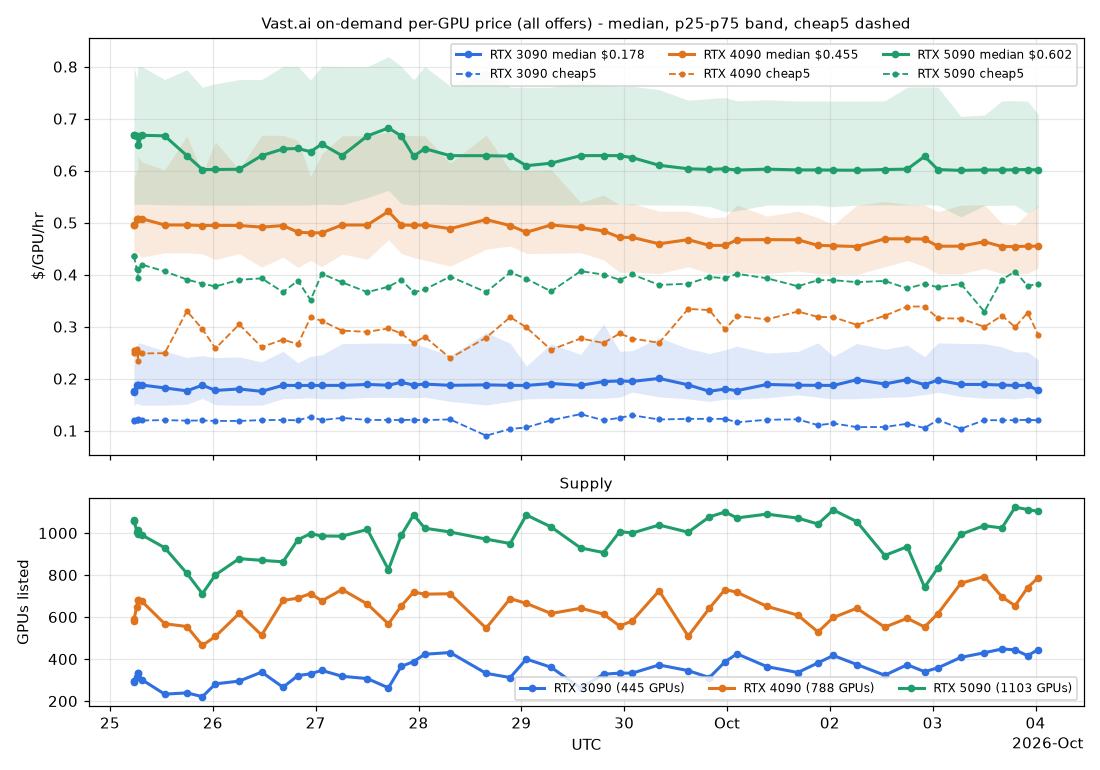
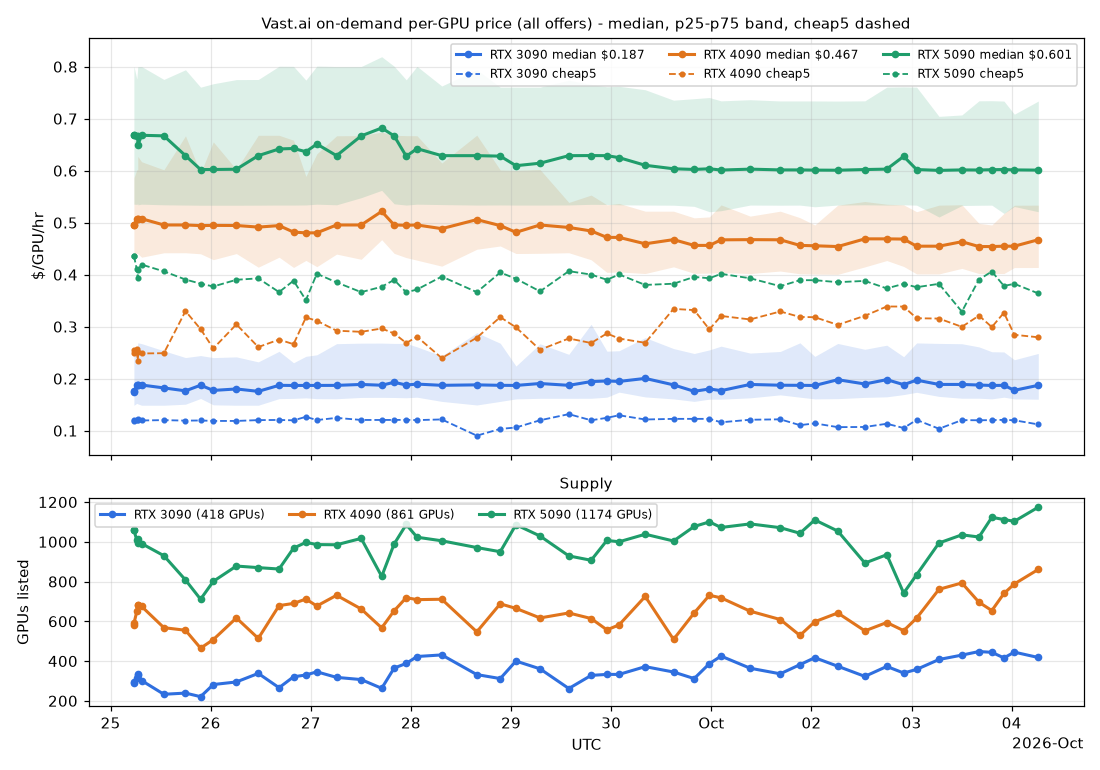
snapshot 2026-10-04T06:22Z

diff --git a/chart.html b/chart.html
@@ -71,7 +71,7 @@ h1 { font-size: 18px; margin: 4px 0 2px; }
     <div class="supply"><canvas id="supply"></canvas></div></div>
 </main>
 <script>
-const DATA = {"all":{"RTX 3090":[[1790314500000,0.1756,0.1489,0.2548,0.1198,294.0,149.0],[1790314560000,0.1741,0.1489,0.2439,0.1193,289.0,148.0],[1790317020000,0.1874,0.1526,0.2529,0.121,316.0,158.0],[1790317860000,0.187,0.1515,0.2678,0.1208,332.0,169.0],[1790317860000,0.1874,0.1515,0.2689,0.1221,335.0,169.0],[1790321160000,0.1878,0.1489,0.2674,0.1196,302.0,156.0],[1790340360000,0.1822,0.1489,0.2536,0.1203,233.0,131.0],[1790359020000,0.1766,0.1509,0.2406,0.1193,239.0,136.0],[1790372040000,0.1874,0.1619,0.2444,0.1196,221.0,131.0],[1790383020000,0.1774,0.1497,0.2405,0.1187,282.0,150.0],[1790402940000,0.1802,0.1489,0.2419,0.1187,295.0,149.0],[1790421840000,0.1756,0.1489,0.2323,0.1203,338.0,161.0],[1790439780000,0.1872,0.1616,0.2526,0.1206,266.0,135.0],[1790452260000,0.1869,0.1621,0.2306,0.1199,321.0,154.0],[1790462940000,0.187,0.1631,0.243,0.1266,330.0,155.0],[1790472360000,0.187,0.1615,0.2459,0.1204,346.0,165.0],[1790489400000,0.1871,0.1614,0.2673,0.1246,318.0,156.0],[1790510640000,0.1889,0.1639,0.2683,0.1206,307.0,155.0],[1790528340000,0.1874,0.1641,0.2684,0.1206,263.0,133.0],[1790539080000,0.193,0.1638,0.2678,0.1206,365.0,170.0],[1790549520000,0.1878,0.1633,0.2678,0.1208,388.0,179.0],[1790558820000,0.1896,0.1644,0.2612,0.1203,423.0,191.0],[1790580180000,0.1872,0.1563,0.2437,0.1216,431.0,180.0],[1790610420000,0.1881,0.1494,0.2884,0.0904,332.0,151.0],[1790630640000,0.1872,0.1563,0.2681,0.1034,312.0,146.0],[1790644200000,0.187,0.1611,0.2243,0.1061,400.0,183.0],[1790664960000,0.1907,0.1622,0.2671,0.12,361.0,167.0],[1790689800000,0.1872,0.1622,0.2468,0.1318,262.0,131.0],[1790709060000,0.1944,0.1623,0.3046,0.12,328.0,158.0],[1790722680000,0.1956,0.1644,0.2529,0.1247,333.0,155.0],[1790733180000,0.1947,0.1741,0.2537,0.1296,333.0,149.0],[1790755740000,0.2005,0.1649,0.2789,0.1215,372.0,162.0],[1790780160000,0.1881,0.1611,0.2579,0.1227,345.0,152.0],[1790797980000,0.1757,0.1563,0.2484,0.1227,312.0,147.0],[1790811120000,0.1802,0.1606,0.2553,0.1227,387.0,171.0],[1790821200000,0.177,0.1606,0.2625,0.1161,425.0,183.0],[1790846280000,0.1889,0.1631,0.2492,0.121,364.0,166.0],[1790872260000,0.1874,0.1689,0.2523,0.1218,336.0,165.0],[1790889240000,0.1872,0.1644,0.2689,0.1106,382.0,168.0],[1790902080000,0.1869,0.1611,0.2428,0.114,417.0,178.0],[1790921880000,0.198,0.1616,0.2677,0.1068,374.0,166.0],[1790945280000,0.1898,0.164,0.2565,0.1071,323.0,156.0],[1790964180000,0.1981,0.1651,0.2644,0.1133,373.0,178.0],[1790978760000,0.1885,0.1694,0.2422,0.1051,340.0,166.0],[1790989920000,0.1972,0.1738,0.2687,0.1207,358.0,174.0],[1791009240000,0.1889,0.1659,0.2678,0.1037,408.0,183.0],[1791028980000,0.1889,0.1624,0.2672,0.1203,430.0,185.0],[1791043740000,0.1878,0.1624,0.2611,0.12,448.0,189.0],[1791054840000,0.1869,0.1612,0.2518,0.1203,444.0,189.0],[1791065280000,0.1872,0.1644,0.2514,0.1208,416.0,176.0],[1791074280000,0.1776,0.1611,0.2364,0.12,445.0,179.0]],"RTX 4090":[[1790314500000,0.4956,0.4353,0.6005,0.2543,582.0,218.0],[1790314560000,0.4956,0.4289,0.5863,0.2488,590.0,219.0],[1790317020000,0.5069,0.441,0.6015,0.257,650.0,240.0],[1790317860000,0.507,0.4402,0.6022,0.2341,682.0,257.0],[1790317860000,0.5069,0.4404,0.6275,0.2515,682.0,257.0],[1790321160000,0.5076,0.4336,0.6172,0.2485,675.0,252.0],[1790340360000,0.4956,0.4421,0.6017,0.249,568.0,219.0],[1790359020000,0.4956,0.4422,0.667,0.33,555.0,225.0],[1790372040000,0.4944,0.4402,0.5953,0.2954,465.0,211.0],[1790383020000,0.4948,0.4289,0.6554,0.2581,508.0,233.0],[1790402940000,0.4946,0.4406,0.6023,0.3044,617.0,246.0],[1790421840000,0.4915,0.4144,0.6681,0.2608,514.0,213.0],[1790439780000,0.4944,0.4336,0.6681,0.2752,679.0,255.0],[1790452260000,0.4819,0.4139,0.6586,0.2663,690.0,263.0],[1790462940000,0.4804,0.4274,0.5889,0.3178,712.0,266.0],[1790472360000,0.4805,0.4154,0.6324,0.3113,677.0,266.0],[1790489400000,0.4956,0.4396,0.6671,0.2923,731.0,272.0],[1790510640000,0.4956,0.4296,0.6675,0.2901,662.0,261.0],[1790528340000,0.5217,0.4673,0.6741,0.2965,567.0,228.0],[1790539080000,0.4956,0.441,0.668,0.2869,653.0,251.0],[1790549520000,0.495,0.4328,0.6674,0.2686,719.0,270.0],[1790558820000,0.4956,0.4279,0.6672,0.2806,709.0,270.0],[1790580180000,0.4885,0.4164,0.6147,0.2396,711.0,268.0],[1790610420000,0.5059,0.4489,0.6683,0.2788,547.0,219.0],[1790630640000,0.4944,0.4552,0.6013,0.3184,688.0,255.0],[1790644200000,0.4815,0.4407,0.6007,0.2987,665.0,248.0],[1790664960000,0.4956,0.4411,0.6022,0.2556,617.0,245.0],[1790689800000,0.4908,0.4422,0.5389,0.2773,642.0,235.0],[1790709060000,0.4841,0.4287,0.5531,0.2686,614.0,234.0],[1790722680000,0.4717,0.4044,0.5343,0.287,557.0,233.0],[1790733180000,0.4717,0.4053,0.537,0.2772,582.0,248.0],[1790755740000,0.4594,0.4022,0.5221,0.269,725.0,273.0],[1790780160000,0.4674,0.4151,0.5221,0.3342,509.0,231.0],[1790797980000,0.4563,0.4026,0.5093,0.3319,642.0,263.0],[1790811120000,0.4563,0.403,0.5111,0.2948,731.0,275.0],[1790821200000,0.467,0.4041,0.5342,0.3206,718.0,275.0],[1790846280000,0.4674,0.4022,0.5126,0.3139,651.0,261.0],[1790872260000,0.4671,0.407,0.5221,0.3292,609.0,252.0],[1790889240000,0.4563,0.4017,0.5096,0.3187,529.0,229.0],[1790902080000,0.4556,0.4011,0.4956,0.3182,598.0,257.0],[1790921880000,0.4541,0.4006,0.5337,0.3035,642.0,261.0],[1790945280000,0.4689,0.415,0.5407,0.321,552.0,231.0],[1790964180000,0.4689,0.4272,0.5355,0.3388,594.0,234.0],[1790978760000,0.4685,0.4158,0.5343,0.3387,553.0,223.0],[1790989920000,0.4548,0.4015,0.5211,0.3162,616.0,248.0],[1791009240000,0.4548,0.4015,0.5337,0.3156,761.0,274.0],[1791028980000,0.4634,0.4121,0.5345,0.2997,793.0,288.0],[1791043740000,0.4541,0.4021,0.4986,0.3212,696.0,268.0],[1791054840000,0.4541,0.4022,0.4956,0.2993,654.0,250.0],[1791065280000,0.4548,0.4022,0.5177,0.3268,740.0,273.0],[1791074280000,0.4548,0.4137,0.5336,0.2844,788.0,274.0]],"RTX 5090":[[1790314500000,0.6678,0.5356,0.8004,0.4356,1060.0,315.0],[1790314560000,0.6678,0.5356,0.8006,0.436,1059.0,317.0],[1790317020000,0.6672,0.5352,0.7763,0.41,1007.0,319.0],[1790317860000,0.6676,0.5366,0.8004,0.3935,995.0,310.0],[1790317860000,0.6489,0.5344,0.8002,0.4093,1015.0,313.0],[1790321160000,0.6681,0.5356,0.8003,0.4194,991.0,299.0],[1790340360000,0.667,0.5344,0.7755,0.4064,930.0,282.0],[1790359020000,0.6289,0.5339,0.7941,0.3907,808.0,270.0],[1790372040000,0.6022,0.5336,0.7606,0.3827,711.0,263.0],[1790383020000,0.6023,0.5336,0.7672,0.3773,801.0,280.0],[1790402940000,0.6028,0.5336,0.7752,0.3902,878.0,302.0],[1790421840000,0.6289,0.5337,0.7754,0.3929,870.0,301.0],[1790439780000,0.6418,0.5339,0.8008,0.3665,863.0,286.0],[1790452260000,0.6427,0.5339,0.8006,0.3884,968.0,297.0],[1790462940000,0.6365,0.5341,0.7742,0.3511,997.0,310.0],[1790472360000,0.6512,0.5356,0.8011,0.4018,986.0,307.0],[1790489400000,0.6289,0.5344,0.8003,0.3852,985.0,315.0],[1790510640000,0.6669,0.5481,0.8003,0.3664,1017.0,321.0],[1790528340000,0.6821,0.5622,0.8192,0.3768,826.0,262.0],[1790539080000,0.6669,0.5363,0.8009,0.39,989.0,299.0],[1790549520000,0.6278,0.5339,0.7748,0.366,1087.0,325.0],[1790558820000,0.6424,0.5356,0.8006,0.3715,1023.0,309.0],[1790580180000,0.6289,0.5348,0.7629,0.3964,1005.0,321.0],[1790610420000,0.6289,0.5339,0.7941,0.3664,971.0,302.0],[1790630640000,0.628,0.5341,0.7607,0.4042,950.0,296.0],[1790644200000,0.6096,0.5339,0.7607,0.3922,1086.0,323.0],[1790664960000,0.6144,0.5339,0.7607,0.3679,1029.0,309.0],[1790689800000,0.6289,0.5341,0.774,0.4068,929.0,292.0],[1790709060000,0.6291,0.5353,0.7657,0.4002,907.0,280.0],[1790722680000,0.6289,0.5351,0.7614,0.3902,1007.0,306.0],[1790733180000,0.6251,0.5344,0.7623,0.4004,1000.0,311.0],[1790755740000,0.6104,0.5339,0.7557,0.3803,1038.0,322.0],[1790780160000,0.6037,0.5336,0.7356,0.3826,1004.0,315.0],[1790797980000,0.6024,0.5314,0.7385,0.3957,1077.0,321.0],[1790811120000,0.6037,0.5211,0.7407,0.3931,1100.0,321.0],[1790821200000,0.6012,0.523,0.7343,0.4016,1072.0,321.0],[1790846280000,0.603,0.5339,0.7365,0.3931,1090.0,342.0],[1790872260000,0.6015,0.5336,0.7341,0.3778,1071.0,325.0],[1790889240000,0.6015,0.5338,0.7341,0.3894,1043.0,313.0],[1790902080000,0.6011,0.5306,0.7341,0.3894,1110.0,320.0],[1790921880000,0.6009,0.5339,0.7339,0.3856,1054.0,323.0],[1790945280000,0.6022,0.5344,0.7343,0.388,893.0,295.0],[1790964180000,0.603,0.5339,0.7607,0.3736,935.0,301.0],[1790978760000,0.6275,0.5344,0.7612,0.3824,742.0,266.0],[1790989920000,0.6022,0.5337,0.7607,0.3759,834.0,273.0],[1791009240000,0.6006,0.5109,0.7045,0.3824,994.0,316.0],[1791028980000,0.6015,0.533,0.7072,0.3289,1035.0,323.0],[1791043740000,0.6013,0.5335,0.7344,0.3906,1024.0,318.0],[1791054840000,0.6019,0.5337,0.7346,0.4061,1123.0,326.0],[1791065280000,0.6022,0.5178,0.7339,0.3784,1112.0,340.0],[1791074280000,0.6015,0.5311,0.7086,0.3824,1103.0,341.0]]},"reliable":{"RTX 3090":[[1790314500000,0.1844,0.149,0.2691,0.1226,183.0,96.0],[1790314560000,0.1774,0.1489,0.2529,0.1197,174.0,93.0],[1790317020000,0.1889,0.1611,0.2674,0.1234,180.0,97.0],[1790317860000,0.1889,0.1611,0.3489,0.1208,207.0,111.0],[1790317860000,0.2005,0.1613,0.3484,0.1221,210.0,114.0],[1790321160000,0.1889,0.1491,0.3188,0.1196,199.0,109.0],[1790340360000,0.1822,0.1512,0.2869,0.1203,162.0,95.0],[1790359020000,0.1774,0.1563,0.2515,0.1193,156.0,93.0],[1790372040000,0.1878,0.1611,0.2499,0.1196,143.0,90.0],[1790383020000,0.1823,0.1563,0.2433,0.1187,171.0,98.0],[1790402940000,0.1802,0.1534,0.2523,0.1187,166.0,97.0],[1790421840000,0.1777,0.1511,0.2521,0.1203,201.0,108.0],[1790439780000,0.1914,0.1611,0.2681,0.1206,165.0,93.0],[1790452260000,0.1781,0.1605,0.2339,0.1225,200.0,100.0],[1790462940000,0.1873,0.1621,0.2675,0.1292,201.0,98.0],[1790472360000,0.1881,0.1606,0.2673,0.1206,190.0,101.0],[1790489400000,0.1878,0.1606,0.2679,0.1246,190.0,105.0],[1790510640000,0.2007,0.1622,0.2678,0.1206,201.0,105.0],[1790528340000,0.1911,0.1644,0.2686,0.1206,174.0,88.0],[1790539080000,0.2006,0.1603,0.2918,0.1206,211.0,110.0],[1790549520000,0.2006,0.1622,0.2689,0.1223,229.0,117.0],[1790558820000,0.2022,0.1644,0.2678,0.1206,272.0,136.0],[1790580180000,0.1893,0.1563,0.264,0.1237,290.0,130.0],[1790610420000,0.2019,0.1627,0.3359,0.1206,217.0,100.0],[1790630640000,0.2015,0.1672,0.3165,0.12,210.0,103.0],[1790644200000,0.188,0.1645,0.2348,0.1216,260.0,124.0],[1790664960000,0.2015,0.1658,0.2791,0.12,224.0,114.0],[1790689800000,0.2006,0.1684,0.2678,0.1327,153.0,80.0],[1790709060000,0.2049,0.1645,0.348,0.1291,201.0,101.0],[1790722680000,0.2015,0.1726,0.2675,0.1356,215.0,104.0],[1790733180000,0.2007,0.1742,0.2537,0.1492,189.0,93.0],[1790755740000,0.203,0.1656,0.2827,0.1417,206.0,98.0],[1790780160000,0.1881,0.1623,0.2545,0.1289,187.0,86.0],[1790797980000,0.1907,0.1648,0.2401,0.1348,158.0,85.0],[1790811120000,0.1881,0.1648,0.2515,0.1342,204.0,105.0],[1790821200000,0.1846,0.1645,0.2651,0.1297,247.0,114.0],[1790846280000,0.2009,0.1696,0.2445,0.1291,218.0,104.0],[1790872260000,0.2019,0.173,0.2681,0.137,161.0,92.0],[1790889240000,0.1987,0.1742,0.2944,0.1383,217.0,106.0],[1790902080000,0.1884,0.162,0.2674,0.1252,226.0,105.0],[1790921880000,0.2015,0.1622,0.2677,0.1311,217.0,106.0],[1790945280000,0.2011,0.1736,0.2628,0.1307,174.0,93.0],[1790964180000,0.1988,0.1668,0.2674,0.1256,218.0,113.0],[1790978760000,0.1927,0.1682,0.2412,0.1259,165.0,91.0],[1790989920000,0.2011,0.1666,0.2784,0.123,172.0,99.0],[1791009240000,0.2008,0.1619,0.2687,0.1043,205.0,110.0],[1791028980000,0.1896,0.1624,0.2689,0.1233,250.0,111.0],[1791043740000,0.1878,0.1611,0.2681,0.1203,259.0,117.0],[1791054840000,0.1872,0.1623,0.2674,0.1259,230.0,110.0],[1791065280000,0.1872,0.1644,0.2441,0.1208,225.0,107.0],[1791074280000,0.1776,0.1607,0.2163,0.1203,212.0,103.0]],"RTX 4090":[[1790314500000,0.4934,0.4405,0.6079,0.3451,452.0,164.0],[1790314560000,0.4911,0.4306,0.6035,0.3335,454.0,162.0],[1790317020000,0.5085,0.4405,0.6607,0.3439,501.0,178.0],[1790317860000,0.5074,0.4334,0.6284,0.3123,527.0,197.0],[1790317860000,0.5143,0.4405,0.6685,0.3361,527.0,192.0],[1790321160000,0.5216,0.4405,0.6676,0.3307,523.0,196.0],[1790340360000,0.5034,0.443,0.6674,0.336,456.0,165.0],[1790359020000,0.5135,0.4422,0.6704,0.3325,419.0,165.0],[1790372040000,0.4819,0.4403,0.6054,0.359,348.0,154.0],[1790383020000,0.4944,0.4291,0.6694,0.3451,412.0,186.0],[1790402940000,0.4833,0.4406,0.6681,0.3367,496.0,193.0],[1790421840000,0.4809,0.4137,0.6681,0.3272,408.0,162.0],[1790439780000,0.4833,0.4309,0.6691,0.3491,542.0,203.0],[1790452260000,0.4808,0.4128,0.6674,0.3389,603.0,224.0],[1790462940000,0.4765,0.4201,0.6019,0.3479,634.0,229.0],[1790472360000,0.4704,0.4149,0.6674,0.3415,602.0,228.0],[1790489400000,0.4822,0.4324,0.6674,0.3226,637.0,235.0],[1790510640000,0.4874,0.4296,0.6696,0.327,548.0,217.0],[1790528340000,0.5363,0.4556,0.697,0.347,448.0,181.0],[1790539080000,0.4916,0.4361,0.6685,0.3348,537.0,206.0],[1790549520000,0.482,0.4293,0.6685,0.351,619.0,232.0],[1790558820000,0.4818,0.4194,0.6674,0.3452,579.0,214.0],[1790580180000,0.4812,0.4154,0.6679,0.3084,591.0,220.0],[1790610420000,0.4964,0.4419,0.6681,0.3343,447.0,174.0],[1790630640000,0.4874,0.4418,0.6089,0.3606,573.0,204.0],[1790644200000,0.4815,0.4374,0.6014,0.3427,559.0,200.0],[1790664960000,0.4942,0.4411,0.6037,0.3295,539.0,201.0],[1790689800000,0.4901,0.4422,0.5556,0.3428,547.0,186.0],[1790709060000,0.4938,0.4286,0.6029,0.3424,493.0,183.0],[1790722680000,0.4678,0.4023,0.5341,0.3549,445.0,182.0],[1790733180000,0.4672,0.405,0.5351,0.3587,460.0,191.0],[1790755740000,0.4554,0.4022,0.5127,0.3181,569.0,212.0],[1790780160000,0.4668,0.4143,0.5222,0.3342,432.0,187.0],[1790797980000,0.4454,0.4022,0.5074,0.3331,535.0,208.0],[1790811120000,0.4484,0.4022,0.4956,0.3154,598.0,213.0],[1790821200000,0.4539,0.4022,0.5341,0.3206,580.0,217.0],[1790846280000,0.4567,0.4022,0.5096,0.3139,554.0,213.0],[1790872260000,0.4543,0.4022,0.5307,0.3381,453.0,190.0],[1790889240000,0.4539,0.4011,0.4939,0.3187,412.0,182.0],[1790902080000,0.4495,0.4006,0.4833,0.3188,449.0,194.0],[1790921880000,0.4419,0.4001,0.4938,0.3035,466.0,201.0],[1790945280000,0.4556,0.4022,0.5341,0.321,446.0,189.0],[1790964180000,0.4678,0.4153,0.5352,0.3388,462.0,181.0],[1790978760000,0.4678,0.415,0.5346,0.3398,402.0,168.0],[1790989920000,0.4543,0.4011,0.5346,0.3165,479.0,196.0],[1791009240000,0.4539,0.4011,0.5343,0.3322,608.0,213.0],[1791028980000,0.4567,0.403,0.5359,0.3136,630.0,229.0],[1791043740000,0.4535,0.4011,0.5341,0.3242,598.0,222.0],[1791054840000,0.4541,0.4022,0.5221,0.3132,531.0,197.0],[1791065280000,0.4539,0.4022,0.5217,0.3303,567.0,214.0],[1791074280000,0.4541,0.4033,0.5215,0.3135,570.0,207.0]],"RTX 5090":[[1790314500000,0.6689,0.5356,0.8649,0.4472,832.0,248.0],[1790314560000,0.6696,0.5352,0.8669,0.436,828.0,251.0],[1790317020000,0.6726,0.5356,0.8006,0.4242,803.0,255.0],[1790317860000,0.6788,0.5363,0.8669,0.4171,784.0,245.0],[1790317860000,0.6678,0.5344,0.848,0.4236,805.0,247.0],[1790321160000,0.6814,0.5356,0.8015,0.4377,746.0,234.0],[1790340360000,0.6689,0.5341,0.8007,0.4203,698.0,216.0],[1790359020000,0.6489,0.5341,0.8011,0.4181,556.0,201.0],[1790372040000,0.6015,0.5336,0.8009,0.3831,458.0,189.0],[1790383020000,0.6156,0.5339,0.8009,0.3773,536.0,201.0],[1790402940000,0.6327,0.534,0.8012,0.3903,644.0,224.0],[1790421840000,0.657,0.5339,0.8015,0.3931,623.0,229.0],[1790439780000,0.6694,0.5344,0.8012,0.3732,625.0,216.0],[1790452260000,0.6543,0.5341,0.8003,0.3891,732.0,229.0],[1790462940000,0.6385,0.5339,0.7623,0.3617,720.0,227.0],[1790472360000,0.6678,0.535,0.8015,0.4168,676.0,223.0],[1790489400000,0.6378,0.5344,0.7853,0.3871,676.0,225.0],[1790510640000,0.6681,0.5481,0.8006,0.3664,778.0,240.0],[1790528340000,0.6994,0.5738,0.8669,0.3768,646.0,200.0],[1790539080000,0.6689,0.5612,0.8015,0.4111,749.0,221.0],[1790549520000,0.6462,0.5344,0.8003,0.366,795.0,237.0],[1790558820000,0.6619,0.5344,0.8015,0.3717,756.0,232.0],[1790580180000,0.6406,0.5344,0.7735,0.4047,752.0,241.0],[1790610420000,0.6406,0.5339,0.7744,0.3664,732.0,229.0],[1790630640000,0.6326,0.5339,0.7607,0.4059,737.0,227.0],[1790644200000,0.6048,0.5339,0.7607,0.3961,827.0,245.0],[1790664960000,0.6144,0.5339,0.7607,0.3903,789.0,235.0],[1790689800000,0.627,0.5341,0.7607,0.4136,691.0,219.0],[1790709060000,0.6289,0.5344,0.7607,0.4148,686.0,207.0],[1790722680000,0.6289,0.5344,0.7607,0.3906,721.0,223.0],[1790733180000,0.6267,0.5344,0.7619,0.407,765.0,240.0],[1790755740000,0.6067,0.5337,0.7356,0.3803,790.0,244.0],[1790780160000,0.6072,0.5336,0.7359,0.3829,756.0,240.0],[1790797980000,0.6024,0.5333,0.7385,0.3961,792.0,233.0],[1790811120000,0.6067,0.5335,0.7607,0.3958,829.0,234.0],[1790821200000,0.6015,0.5335,0.7343,0.4077,828.0,241.0],[1790846280000,0.6158,0.5339,0.755,0.3934,832.0,258.0],[1790872260000,0.6006,0.5335,0.7339,0.391,770.0,239.0],[1790889240000,0.6015,0.5338,0.7344,0.4037,816.0,242.0],[1790902080000,0.6012,0.5336,0.7344,0.3991,841.0,241.0],[1790921880000,0.6015,0.534,0.734,0.3926,799.0,247.0],[1790945280000,0.603,0.5344,0.7353,0.388,654.0,227.0],[1790964180000,0.6022,0.5337,0.761,0.3823,697.0,223.0],[1790978760000,0.614,0.5344,0.7607,0.3824,597.0,212.0],[1790989920000,0.6022,0.5339,0.7607,0.3847,632.0,211.0],[1791009240000,0.5924,0.5138,0.7047,0.3824,786.0,250.0],[1791028980000,0.602,0.5337,0.7338,0.3474,801.0,238.0],[1791043740000,0.6019,0.5336,0.7362,0.4012,759.0,232.0],[1791054840000,0.6048,0.5338,0.7607,0.4088,827.0,239.0],[1791065280000,0.6032,0.5336,0.7357,0.3836,834.0,259.0],[1791074280000,0.6022,0.5336,0.7353,0.3828,804.0,254.0]]}};
+const DATA = {"all":{"RTX 3090":[[1790314500000,0.1756,0.1489,0.2548,0.1198,294.0,149.0],[1790314560000,0.1741,0.1489,0.2439,0.1193,289.0,148.0],[1790317020000,0.1874,0.1526,0.2529,0.121,316.0,158.0],[1790317860000,0.187,0.1515,0.2678,0.1208,332.0,169.0],[1790317860000,0.1874,0.1515,0.2689,0.1221,335.0,169.0],[1790321160000,0.1878,0.1489,0.2674,0.1196,302.0,156.0],[1790340360000,0.1822,0.1489,0.2536,0.1203,233.0,131.0],[1790359020000,0.1766,0.1509,0.2406,0.1193,239.0,136.0],[1790372040000,0.1874,0.1619,0.2444,0.1196,221.0,131.0],[1790383020000,0.1774,0.1497,0.2405,0.1187,282.0,150.0],[1790402940000,0.1802,0.1489,0.2419,0.1187,295.0,149.0],[1790421840000,0.1756,0.1489,0.2323,0.1203,338.0,161.0],[1790439780000,0.1872,0.1616,0.2526,0.1206,266.0,135.0],[1790452260000,0.1869,0.1621,0.2306,0.1199,321.0,154.0],[1790462940000,0.187,0.1631,0.243,0.1266,330.0,155.0],[1790472360000,0.187,0.1615,0.2459,0.1204,346.0,165.0],[1790489400000,0.1871,0.1614,0.2673,0.1246,318.0,156.0],[1790510640000,0.1889,0.1639,0.2683,0.1206,307.0,155.0],[1790528340000,0.1874,0.1641,0.2684,0.1206,263.0,133.0],[1790539080000,0.193,0.1638,0.2678,0.1206,365.0,170.0],[1790549520000,0.1878,0.1633,0.2678,0.1208,388.0,179.0],[1790558820000,0.1896,0.1644,0.2612,0.1203,423.0,191.0],[1790580180000,0.1872,0.1563,0.2437,0.1216,431.0,180.0],[1790610420000,0.1881,0.1494,0.2884,0.0904,332.0,151.0],[1790630640000,0.1872,0.1563,0.2681,0.1034,312.0,146.0],[1790644200000,0.187,0.1611,0.2243,0.1061,400.0,183.0],[1790664960000,0.1907,0.1622,0.2671,0.12,361.0,167.0],[1790689800000,0.1872,0.1622,0.2468,0.1318,262.0,131.0],[1790709060000,0.1944,0.1623,0.3046,0.12,328.0,158.0],[1790722680000,0.1956,0.1644,0.2529,0.1247,333.0,155.0],[1790733180000,0.1947,0.1741,0.2537,0.1296,333.0,149.0],[1790755740000,0.2005,0.1649,0.2789,0.1215,372.0,162.0],[1790780160000,0.1881,0.1611,0.2579,0.1227,345.0,152.0],[1790797980000,0.1757,0.1563,0.2484,0.1227,312.0,147.0],[1790811120000,0.1802,0.1606,0.2553,0.1227,387.0,171.0],[1790821200000,0.177,0.1606,0.2625,0.1161,425.0,183.0],[1790846280000,0.1889,0.1631,0.2492,0.121,364.0,166.0],[1790872260000,0.1874,0.1689,0.2523,0.1218,336.0,165.0],[1790889240000,0.1872,0.1644,0.2689,0.1106,382.0,168.0],[1790902080000,0.1869,0.1611,0.2428,0.114,417.0,178.0],[1790921880000,0.198,0.1616,0.2677,0.1068,374.0,166.0],[1790945280000,0.1898,0.164,0.2565,0.1071,323.0,156.0],[1790964180000,0.1981,0.1651,0.2644,0.1133,373.0,178.0],[1790978760000,0.1885,0.1694,0.2422,0.1051,340.0,166.0],[1790989920000,0.1972,0.1738,0.2687,0.1207,358.0,174.0],[1791009240000,0.1889,0.1659,0.2678,0.1037,408.0,183.0],[1791028980000,0.1889,0.1624,0.2672,0.1203,430.0,185.0],[1791043740000,0.1878,0.1624,0.2611,0.12,448.0,189.0],[1791054840000,0.1869,0.1612,0.2518,0.1203,444.0,189.0],[1791065280000,0.1872,0.1644,0.2514,0.1208,416.0,176.0],[1791074280000,0.1776,0.1611,0.2364,0.12,445.0,179.0],[1791094920000,0.1872,0.1605,0.2485,0.112,418.0,180.0]],"RTX 4090":[[1790314500000,0.4956,0.4353,0.6005,0.2543,582.0,218.0],[1790314560000,0.4956,0.4289,0.5863,0.2488,590.0,219.0],[1790317020000,0.5069,0.441,0.6015,0.257,650.0,240.0],[1790317860000,0.507,0.4402,0.6022,0.2341,682.0,257.0],[1790317860000,0.5069,0.4404,0.6275,0.2515,682.0,257.0],[1790321160000,0.5076,0.4336,0.6172,0.2485,675.0,252.0],[1790340360000,0.4956,0.4421,0.6017,0.249,568.0,219.0],[1790359020000,0.4956,0.4422,0.667,0.33,555.0,225.0],[1790372040000,0.4944,0.4402,0.5953,0.2954,465.0,211.0],[1790383020000,0.4948,0.4289,0.6554,0.2581,508.0,233.0],[1790402940000,0.4946,0.4406,0.6023,0.3044,617.0,246.0],[1790421840000,0.4915,0.4144,0.6681,0.2608,514.0,213.0],[1790439780000,0.4944,0.4336,0.6681,0.2752,679.0,255.0],[1790452260000,0.4819,0.4139,0.6586,0.2663,690.0,263.0],[1790462940000,0.4804,0.4274,0.5889,0.3178,712.0,266.0],[1790472360000,0.4805,0.4154,0.6324,0.3113,677.0,266.0],[1790489400000,0.4956,0.4396,0.6671,0.2923,731.0,272.0],[1790510640000,0.4956,0.4296,0.6675,0.2901,662.0,261.0],[1790528340000,0.5217,0.4673,0.6741,0.2965,567.0,228.0],[1790539080000,0.4956,0.441,0.668,0.2869,653.0,251.0],[1790549520000,0.495,0.4328,0.6674,0.2686,719.0,270.0],[1790558820000,0.4956,0.4279,0.6672,0.2806,709.0,270.0],[1790580180000,0.4885,0.4164,0.6147,0.2396,711.0,268.0],[1790610420000,0.5059,0.4489,0.6683,0.2788,547.0,219.0],[1790630640000,0.4944,0.4552,0.6013,0.3184,688.0,255.0],[1790644200000,0.4815,0.4407,0.6007,0.2987,665.0,248.0],[1790664960000,0.4956,0.4411,0.6022,0.2556,617.0,245.0],[1790689800000,0.4908,0.4422,0.5389,0.2773,642.0,235.0],[1790709060000,0.4841,0.4287,0.5531,0.2686,614.0,234.0],[1790722680000,0.4717,0.4044,0.5343,0.287,557.0,233.0],[1790733180000,0.4717,0.4053,0.537,0.2772,582.0,248.0],[1790755740000,0.4594,0.4022,0.5221,0.269,725.0,273.0],[1790780160000,0.4674,0.4151,0.5221,0.3342,509.0,231.0],[1790797980000,0.4563,0.4026,0.5093,0.3319,642.0,263.0],[1790811120000,0.4563,0.403,0.5111,0.2948,731.0,275.0],[1790821200000,0.467,0.4041,0.5342,0.3206,718.0,275.0],[1790846280000,0.4674,0.4022,0.5126,0.3139,651.0,261.0],[1790872260000,0.4671,0.407,0.5221,0.3292,609.0,252.0],[1790889240000,0.4563,0.4017,0.5096,0.3187,529.0,229.0],[1790902080000,0.4556,0.4011,0.4956,0.3182,598.0,257.0],[1790921880000,0.4541,0.4006,0.5337,0.3035,642.0,261.0],[1790945280000,0.4689,0.415,0.5407,0.321,552.0,231.0],[1790964180000,0.4689,0.4272,0.5355,0.3388,594.0,234.0],[1790978760000,0.4685,0.4158,0.5343,0.3387,553.0,223.0],[1790989920000,0.4548,0.4015,0.5211,0.3162,616.0,248.0],[1791009240000,0.4548,0.4015,0.5337,0.3156,761.0,274.0],[1791028980000,0.4634,0.4121,0.5345,0.2997,793.0,288.0],[1791043740000,0.4541,0.4021,0.4986,0.3212,696.0,268.0],[1791054840000,0.4541,0.4022,0.4956,0.2993,654.0,250.0],[1791065280000,0.4548,0.4022,0.5177,0.3268,740.0,273.0],[1791074280000,0.4548,0.4137,0.5336,0.2844,788.0,274.0],[1791094920000,0.4672,0.4138,0.5337,0.2796,861.0,289.0]],"RTX 5090":[[1790314500000,0.6678,0.5356,0.8004,0.4356,1060.0,315.0],[1790314560000,0.6678,0.5356,0.8006,0.436,1059.0,317.0],[1790317020000,0.6672,0.5352,0.7763,0.41,1007.0,319.0],[1790317860000,0.6676,0.5366,0.8004,0.3935,995.0,310.0],[1790317860000,0.6489,0.5344,0.8002,0.4093,1015.0,313.0],[1790321160000,0.6681,0.5356,0.8003,0.4194,991.0,299.0],[1790340360000,0.667,0.5344,0.7755,0.4064,930.0,282.0],[1790359020000,0.6289,0.5339,0.7941,0.3907,808.0,270.0],[1790372040000,0.6022,0.5336,0.7606,0.3827,711.0,263.0],[1790383020000,0.6023,0.5336,0.7672,0.3773,801.0,280.0],[1790402940000,0.6028,0.5336,0.7752,0.3902,878.0,302.0],[1790421840000,0.6289,0.5337,0.7754,0.3929,870.0,301.0],[1790439780000,0.6418,0.5339,0.8008,0.3665,863.0,286.0],[1790452260000,0.6427,0.5339,0.8006,0.3884,968.0,297.0],[1790462940000,0.6365,0.5341,0.7742,0.3511,997.0,310.0],[1790472360000,0.6512,0.5356,0.8011,0.4018,986.0,307.0],[1790489400000,0.6289,0.5344,0.8003,0.3852,985.0,315.0],[1790510640000,0.6669,0.5481,0.8003,0.3664,1017.0,321.0],[1790528340000,0.6821,0.5622,0.8192,0.3768,826.0,262.0],[1790539080000,0.6669,0.5363,0.8009,0.39,989.0,299.0],[1790549520000,0.6278,0.5339,0.7748,0.366,1087.0,325.0],[1790558820000,0.6424,0.5356,0.8006,0.3715,1023.0,309.0],[1790580180000,0.6289,0.5348,0.7629,0.3964,1005.0,321.0],[1790610420000,0.6289,0.5339,0.7941,0.3664,971.0,302.0],[1790630640000,0.628,0.5341,0.7607,0.4042,950.0,296.0],[1790644200000,0.6096,0.5339,0.7607,0.3922,1086.0,323.0],[1790664960000,0.6144,0.5339,0.7607,0.3679,1029.0,309.0],[1790689800000,0.6289,0.5341,0.774,0.4068,929.0,292.0],[1790709060000,0.6291,0.5353,0.7657,0.4002,907.0,280.0],[1790722680000,0.6289,0.5351,0.7614,0.3902,1007.0,306.0],[1790733180000,0.6251,0.5344,0.7623,0.4004,1000.0,311.0],[1790755740000,0.6104,0.5339,0.7557,0.3803,1038.0,322.0],[1790780160000,0.6037,0.5336,0.7356,0.3826,1004.0,315.0],[1790797980000,0.6024,0.5314,0.7385,0.3957,1077.0,321.0],[1790811120000,0.6037,0.5211,0.7407,0.3931,1100.0,321.0],[1790821200000,0.6012,0.523,0.7343,0.4016,1072.0,321.0],[1790846280000,0.603,0.5339,0.7365,0.3931,1090.0,342.0],[1790872260000,0.6015,0.5336,0.7341,0.3778,1071.0,325.0],[1790889240000,0.6015,0.5338,0.7341,0.3894,1043.0,313.0],[1790902080000,0.6011,0.5306,0.7341,0.3894,1110.0,320.0],[1790921880000,0.6009,0.5339,0.7339,0.3856,1054.0,323.0],[1790945280000,0.6022,0.5344,0.7343,0.388,893.0,295.0],[1790964180000,0.603,0.5339,0.7607,0.3736,935.0,301.0],[1790978760000,0.6275,0.5344,0.7612,0.3824,742.0,266.0],[1790989920000,0.6022,0.5337,0.7607,0.3759,834.0,273.0],[1791009240000,0.6006,0.5109,0.7045,0.3824,994.0,316.0],[1791028980000,0.6015,0.533,0.7072,0.3289,1035.0,323.0],[1791043740000,0.6013,0.5335,0.7344,0.3906,1024.0,318.0],[1791054840000,0.6019,0.5337,0.7346,0.4061,1123.0,326.0],[1791065280000,0.6022,0.5178,0.7339,0.3784,1112.0,340.0],[1791074280000,0.6015,0.5311,0.7086,0.3824,1103.0,341.0],[1791094920000,0.6011,0.5211,0.7339,0.364,1174.0,357.0]]},"reliable":{"RTX 3090":[[1790314500000,0.1844,0.149,0.2691,0.1226,183.0,96.0],[1790314560000,0.1774,0.1489,0.2529,0.1197,174.0,93.0],[1790317020000,0.1889,0.1611,0.2674,0.1234,180.0,97.0],[1790317860000,0.1889,0.1611,0.3489,0.1208,207.0,111.0],[1790317860000,0.2005,0.1613,0.3484,0.1221,210.0,114.0],[1790321160000,0.1889,0.1491,0.3188,0.1196,199.0,109.0],[1790340360000,0.1822,0.1512,0.2869,0.1203,162.0,95.0],[1790359020000,0.1774,0.1563,0.2515,0.1193,156.0,93.0],[1790372040000,0.1878,0.1611,0.2499,0.1196,143.0,90.0],[1790383020000,0.1823,0.1563,0.2433,0.1187,171.0,98.0],[1790402940000,0.1802,0.1534,0.2523,0.1187,166.0,97.0],[1790421840000,0.1777,0.1511,0.2521,0.1203,201.0,108.0],[1790439780000,0.1914,0.1611,0.2681,0.1206,165.0,93.0],[1790452260000,0.1781,0.1605,0.2339,0.1225,200.0,100.0],[1790462940000,0.1873,0.1621,0.2675,0.1292,201.0,98.0],[1790472360000,0.1881,0.1606,0.2673,0.1206,190.0,101.0],[1790489400000,0.1878,0.1606,0.2679,0.1246,190.0,105.0],[1790510640000,0.2007,0.1622,0.2678,0.1206,201.0,105.0],[1790528340000,0.1911,0.1644,0.2686,0.1206,174.0,88.0],[1790539080000,0.2006,0.1603,0.2918,0.1206,211.0,110.0],[1790549520000,0.2006,0.1622,0.2689,0.1223,229.0,117.0],[1790558820000,0.2022,0.1644,0.2678,0.1206,272.0,136.0],[1790580180000,0.1893,0.1563,0.264,0.1237,290.0,130.0],[1790610420000,0.2019,0.1627,0.3359,0.1206,217.0,100.0],[1790630640000,0.2015,0.1672,0.3165,0.12,210.0,103.0],[1790644200000,0.188,0.1645,0.2348,0.1216,260.0,124.0],[1790664960000,0.2015,0.1658,0.2791,0.12,224.0,114.0],[1790689800000,0.2006,0.1684,0.2678,0.1327,153.0,80.0],[1790709060000,0.2049,0.1645,0.348,0.1291,201.0,101.0],[1790722680000,0.2015,0.1726,0.2675,0.1356,215.0,104.0],[1790733180000,0.2007,0.1742,0.2537,0.1492,189.0,93.0],[1790755740000,0.203,0.1656,0.2827,0.1417,206.0,98.0],[1790780160000,0.1881,0.1623,0.2545,0.1289,187.0,86.0],[1790797980000,0.1907,0.1648,0.2401,0.1348,158.0,85.0],[1790811120000,0.1881,0.1648,0.2515,0.1342,204.0,105.0],[1790821200000,0.1846,0.1645,0.2651,0.1297,247.0,114.0],[1790846280000,0.2009,0.1696,0.2445,0.1291,218.0,104.0],[1790872260000,0.2019,0.173,0.2681,0.137,161.0,92.0],[1790889240000,0.1987,0.1742,0.2944,0.1383,217.0,106.0],[1790902080000,0.1884,0.162,0.2674,0.1252,226.0,105.0],[1790921880000,0.2015,0.1622,0.2677,0.1311,217.0,106.0],[1790945280000,0.2011,0.1736,0.2628,0.1307,174.0,93.0],[1790964180000,0.1988,0.1668,0.2674,0.1256,218.0,113.0],[1790978760000,0.1927,0.1682,0.2412,0.1259,165.0,91.0],[1790989920000,0.2011,0.1666,0.2784,0.123,172.0,99.0],[1791009240000,0.2008,0.1619,0.2687,0.1043,205.0,110.0],[1791028980000,0.1896,0.1624,0.2689,0.1233,250.0,111.0],[1791043740000,0.1878,0.1611,0.2681,0.1203,259.0,117.0],[1791054840000,0.1872,0.1623,0.2674,0.1259,230.0,110.0],[1791065280000,0.1872,0.1644,0.2441,0.1208,225.0,107.0],[1791074280000,0.1776,0.1607,0.2163,0.1203,212.0,103.0],[1791094920000,0.1879,0.1604,0.2686,0.1174,224.0,110.0]],"RTX 4090":[[1790314500000,0.4934,0.4405,0.6079,0.3451,452.0,164.0],[1790314560000,0.4911,0.4306,0.6035,0.3335,454.0,162.0],[1790317020000,0.5085,0.4405,0.6607,0.3439,501.0,178.0],[1790317860000,0.5074,0.4334,0.6284,0.3123,527.0,197.0],[1790317860000,0.5143,0.4405,0.6685,0.3361,527.0,192.0],[1790321160000,0.5216,0.4405,0.6676,0.3307,523.0,196.0],[1790340360000,0.5034,0.443,0.6674,0.336,456.0,165.0],[1790359020000,0.5135,0.4422,0.6704,0.3325,419.0,165.0],[1790372040000,0.4819,0.4403,0.6054,0.359,348.0,154.0],[1790383020000,0.4944,0.4291,0.6694,0.3451,412.0,186.0],[1790402940000,0.4833,0.4406,0.6681,0.3367,496.0,193.0],[1790421840000,0.4809,0.4137,0.6681,0.3272,408.0,162.0],[1790439780000,0.4833,0.4309,0.6691,0.3491,542.0,203.0],[1790452260000,0.4808,0.4128,0.6674,0.3389,603.0,224.0],[1790462940000,0.4765,0.4201,0.6019,0.3479,634.0,229.0],[1790472360000,0.4704,0.4149,0.6674,0.3415,602.0,228.0],[1790489400000,0.4822,0.4324,0.6674,0.3226,637.0,235.0],[1790510640000,0.4874,0.4296,0.6696,0.327,548.0,217.0],[1790528340000,0.5363,0.4556,0.697,0.347,448.0,181.0],[1790539080000,0.4916,0.4361,0.6685,0.3348,537.0,206.0],[1790549520000,0.482,0.4293,0.6685,0.351,619.0,232.0],[1790558820000,0.4818,0.4194,0.6674,0.3452,579.0,214.0],[1790580180000,0.4812,0.4154,0.6679,0.3084,591.0,220.0],[1790610420000,0.4964,0.4419,0.6681,0.3343,447.0,174.0],[1790630640000,0.4874,0.4418,0.6089,0.3606,573.0,204.0],[1790644200000,0.4815,0.4374,0.6014,0.3427,559.0,200.0],[1790664960000,0.4942,0.4411,0.6037,0.3295,539.0,201.0],[1790689800000,0.4901,0.4422,0.5556,0.3428,547.0,186.0],[1790709060000,0.4938,0.4286,0.6029,0.3424,493.0,183.0],[1790722680000,0.4678,0.4023,0.5341,0.3549,445.0,182.0],[1790733180000,0.4672,0.405,0.5351,0.3587,460.0,191.0],[1790755740000,0.4554,0.4022,0.5127,0.3181,569.0,212.0],[1790780160000,0.4668,0.4143,0.5222,0.3342,432.0,187.0],[1790797980000,0.4454,0.4022,0.5074,0.3331,535.0,208.0],[1790811120000,0.4484,0.4022,0.4956,0.3154,598.0,213.0],[1790821200000,0.4539,0.4022,0.5341,0.3206,580.0,217.0],[1790846280000,0.4567,0.4022,0.5096,0.3139,554.0,213.0],[1790872260000,0.4543,0.4022,0.5307,0.3381,453.0,190.0],[1790889240000,0.4539,0.4011,0.4939,0.3187,412.0,182.0],[1790902080000,0.4495,0.4006,0.4833,0.3188,449.0,194.0],[1790921880000,0.4419,0.4001,0.4938,0.3035,466.0,201.0],[1790945280000,0.4556,0.4022,0.5341,0.321,446.0,189.0],[1790964180000,0.4678,0.4153,0.5352,0.3388,462.0,181.0],[1790978760000,0.4678,0.415,0.5346,0.3398,402.0,168.0],[1790989920000,0.4543,0.4011,0.5346,0.3165,479.0,196.0],[1791009240000,0.4539,0.4011,0.5343,0.3322,608.0,213.0],[1791028980000,0.4567,0.403,0.5359,0.3136,630.0,229.0],[1791043740000,0.4535,0.4011,0.5341,0.3242,598.0,222.0],[1791054840000,0.4541,0.4022,0.5221,0.3132,531.0,197.0],[1791065280000,0.4539,0.4022,0.5217,0.3303,567.0,214.0],[1791074280000,0.4541,0.4033,0.5215,0.3135,570.0,207.0],[1791094920000,0.4546,0.4113,0.5337,0.3105,607.0,208.0]],"RTX 5090":[[1790314500000,0.6689,0.5356,0.8649,0.4472,832.0,248.0],[1790314560000,0.6696,0.5352,0.8669,0.436,828.0,251.0],[1790317020000,0.6726,0.5356,0.8006,0.4242,803.0,255.0],[1790317860000,0.6788,0.5363,0.8669,0.4171,784.0,245.0],[1790317860000,0.6678,0.5344,0.848,0.4236,805.0,247.0],[1790321160000,0.6814,0.5356,0.8015,0.4377,746.0,234.0],[1790340360000,0.6689,0.5341,0.8007,0.4203,698.0,216.0],[1790359020000,0.6489,0.5341,0.8011,0.4181,556.0,201.0],[1790372040000,0.6015,0.5336,0.8009,0.3831,458.0,189.0],[1790383020000,0.6156,0.5339,0.8009,0.3773,536.0,201.0],[1790402940000,0.6327,0.534,0.8012,0.3903,644.0,224.0],[1790421840000,0.657,0.5339,0.8015,0.3931,623.0,229.0],[1790439780000,0.6694,0.5344,0.8012,0.3732,625.0,216.0],[1790452260000,0.6543,0.5341,0.8003,0.3891,732.0,229.0],[1790462940000,0.6385,0.5339,0.7623,0.3617,720.0,227.0],[1790472360000,0.6678,0.535,0.8015,0.4168,676.0,223.0],[1790489400000,0.6378,0.5344,0.7853,0.3871,676.0,225.0],[1790510640000,0.6681,0.5481,0.8006,0.3664,778.0,240.0],[1790528340000,0.6994,0.5738,0.8669,0.3768,646.0,200.0],[1790539080000,0.6689,0.5612,0.8015,0.4111,749.0,221.0],[1790549520000,0.6462,0.5344,0.8003,0.366,795.0,237.0],[1790558820000,0.6619,0.5344,0.8015,0.3717,756.0,232.0],[1790580180000,0.6406,0.5344,0.7735,0.4047,752.0,241.0],[1790610420000,0.6406,0.5339,0.7744,0.3664,732.0,229.0],[1790630640000,0.6326,0.5339,0.7607,0.4059,737.0,227.0],[1790644200000,0.6048,0.5339,0.7607,0.3961,827.0,245.0],[1790664960000,0.6144,0.5339,0.7607,0.3903,789.0,235.0],[1790689800000,0.627,0.5341,0.7607,0.4136,691.0,219.0],[1790709060000,0.6289,0.5344,0.7607,0.4148,686.0,207.0],[1790722680000,0.6289,0.5344,0.7607,0.3906,721.0,223.0],[1790733180000,0.6267,0.5344,0.7619,0.407,765.0,240.0],[1790755740000,0.6067,0.5337,0.7356,0.3803,790.0,244.0],[1790780160000,0.6072,0.5336,0.7359,0.3829,756.0,240.0],[1790797980000,0.6024,0.5333,0.7385,0.3961,792.0,233.0],[1790811120000,0.6067,0.5335,0.7607,0.3958,829.0,234.0],[1790821200000,0.6015,0.5335,0.7343,0.4077,828.0,241.0],[1790846280000,0.6158,0.5339,0.755,0.3934,832.0,258.0],[1790872260000,0.6006,0.5335,0.7339,0.391,770.0,239.0],[1790889240000,0.6015,0.5338,0.7344,0.4037,816.0,242.0],[1790902080000,0.6012,0.5336,0.7344,0.3991,841.0,241.0],[1790921880000,0.6015,0.534,0.734,0.3926,799.0,247.0],[1790945280000,0.603,0.5344,0.7353,0.388,654.0,227.0],[1790964180000,0.6022,0.5337,0.761,0.3823,697.0,223.0],[1790978760000,0.614,0.5344,0.7607,0.3824,597.0,212.0],[1790989920000,0.6022,0.5339,0.7607,0.3847,632.0,211.0],[1791009240000,0.5924,0.5138,0.7047,0.3824,786.0,250.0],[1791028980000,0.602,0.5337,0.7338,0.3474,801.0,238.0],[1791043740000,0.6019,0.5336,0.7362,0.4012,759.0,232.0],[1791054840000,0.6048,0.5338,0.7607,0.4088,827.0,239.0],[1791065280000,0.6032,0.5336,0.7357,0.3836,834.0,259.0],[1791074280000,0.6022,0.5336,0.7353,0.3828,804.0,254.0],[1791094920000,0.6015,0.5218,0.7344,0.3643,839.0,262.0]]}};
 const GPUS = ["RTX 3090", "RTX 4090", "RTX 5090"];
 const H = 3600e3;
 let subset = "all", rangeH = 168, priceChart = null, supplyChart = null;
@@ -186,7 +186,7 @@ wire("subset", v => subset = v);
 wire("range", v => rangeH = Number(v));
 const lt = latestT();
 document.getElementById("updated").textContent = lt
-  ? "Latest snapshot: " + new Date(lt).toISOString().slice(0, 16).replace("T", " ") + " UTC  (generated 2026-10-04 00:38 UTC)"
+  ? "Latest snapshot: " + new Date(lt).toISOString().slice(0, 16).replace("T", " ") + " UTC  (generated 2026-10-04 06:22 UTC)"
   : "No data yet.";
 matchMedia("(prefers-color-scheme: dark)").addEventListener("change", render);
 render();
